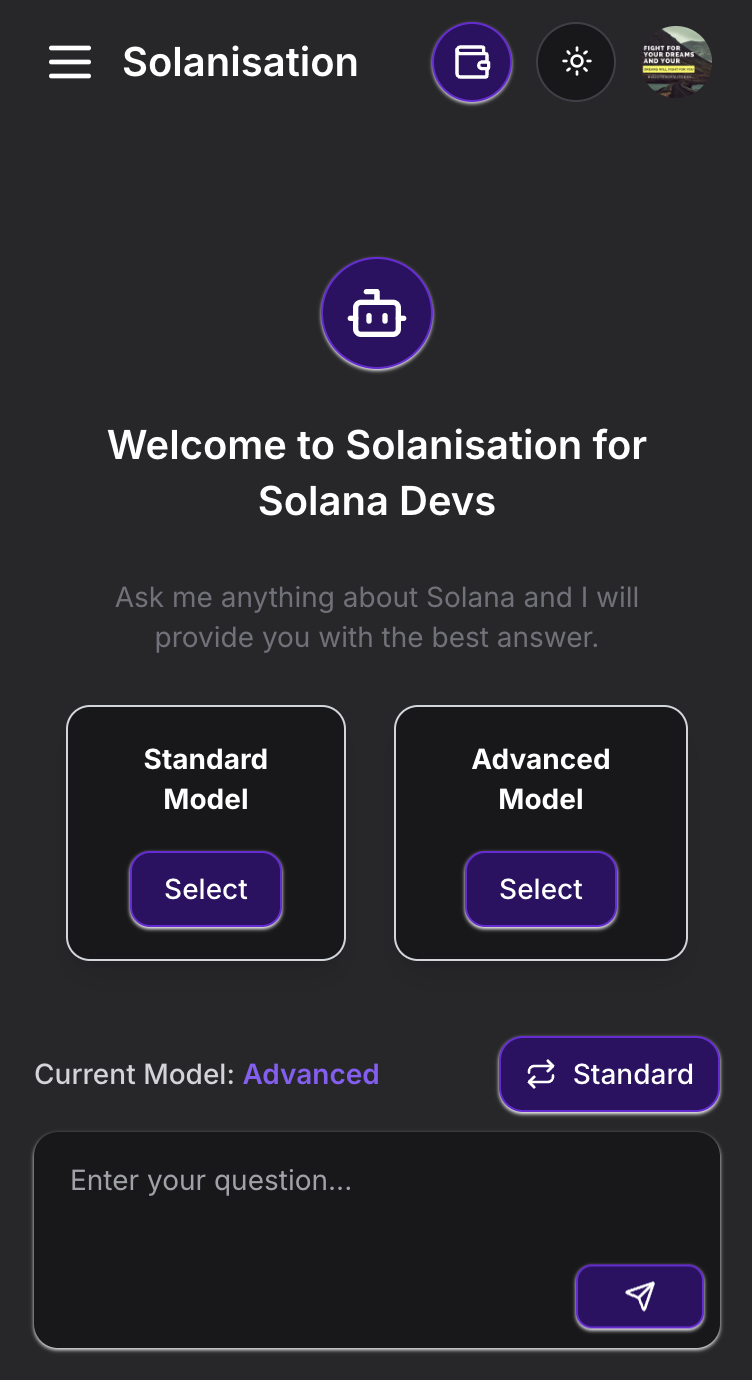
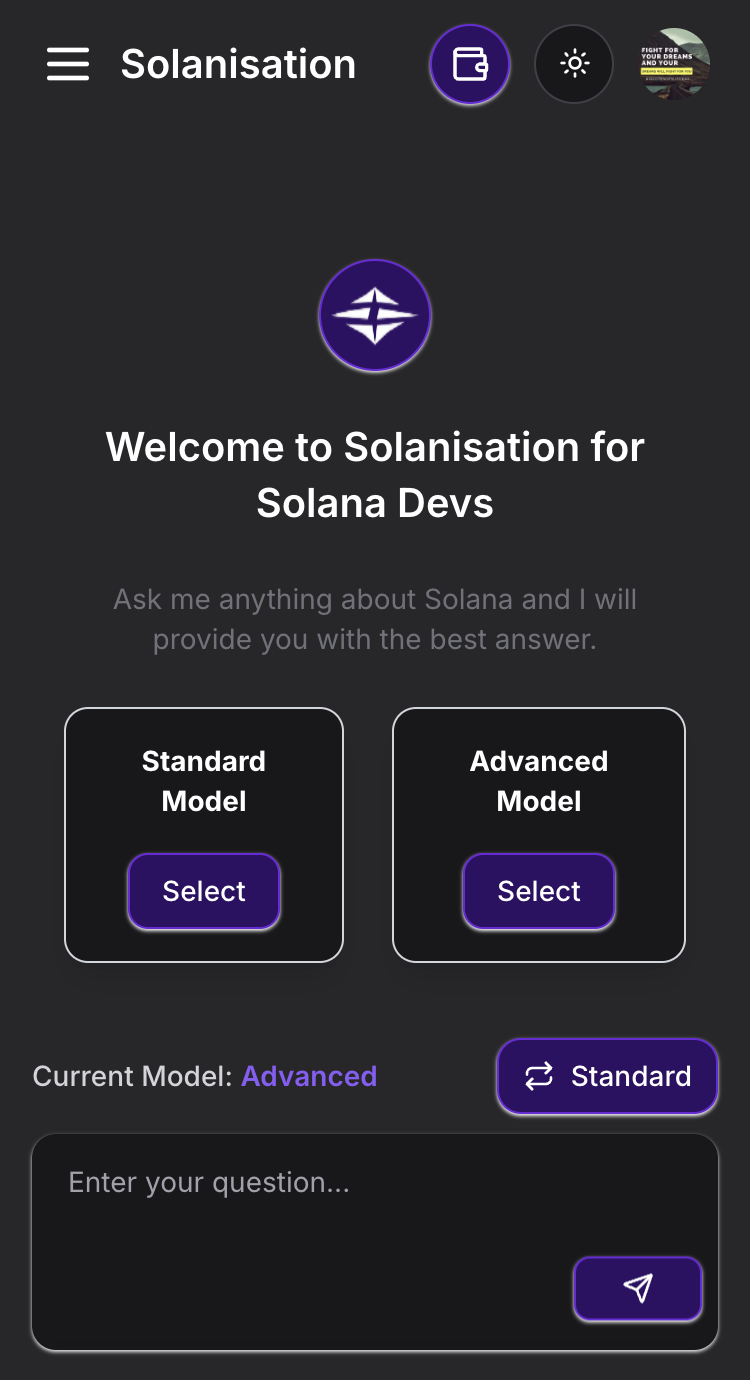
hero images changed

diff --git a/src/components/landing/Footer.tsx b/src/components/landing/Footer.tsx
@@ -8,7 +8,7 @@ type Props = {};
 
 const Footer = (props: Props) => {
   return (
-    <footer className="border-t border-solid border-violet-900 text-gray-300 py-6 px-24">
+    <footer className="border-t border-solid dark:border-white border-black dark:text-white text-black py-6 px-24">
       <div className="container mx-auto flex sm:flex-row flex-col gap-4 items-center justify-between">
         <div className="sm:flex hidden items-center gap-1">
           <Slide direction="down" duration={500} cascade>
